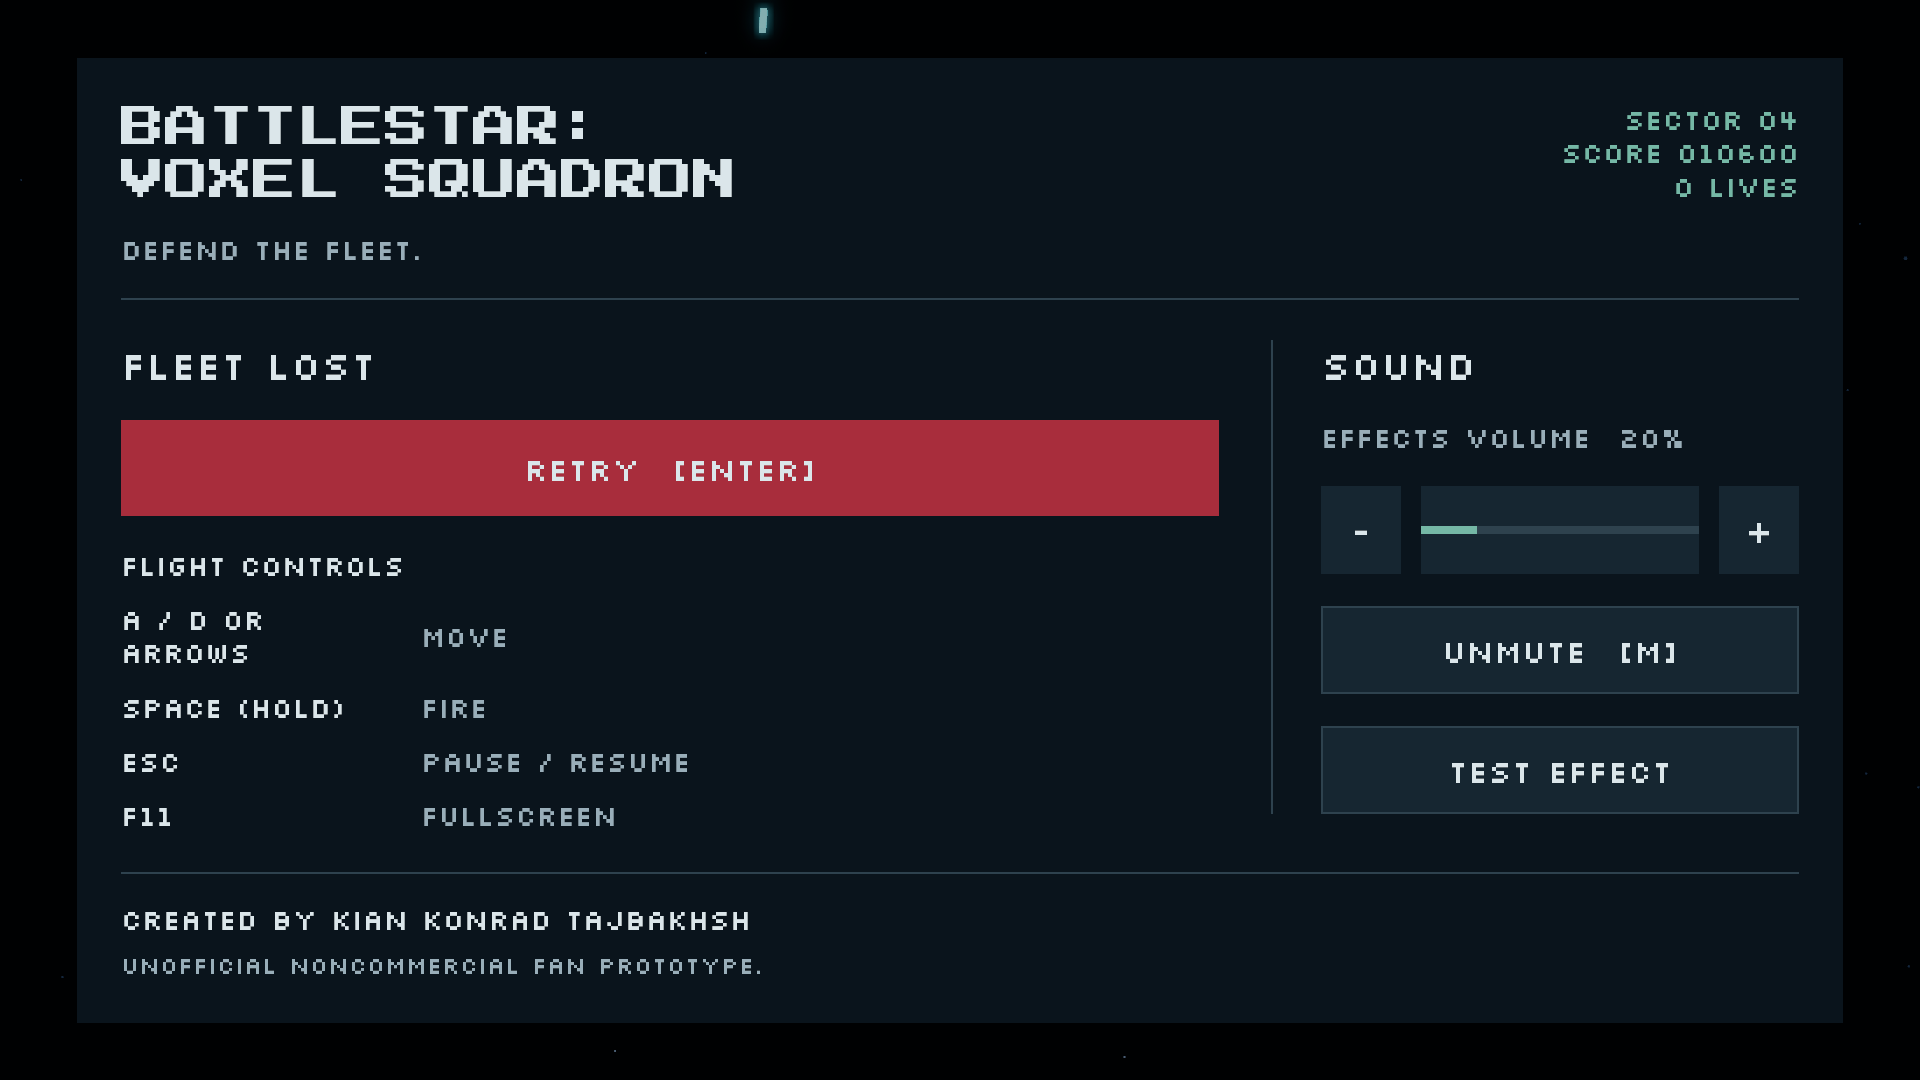
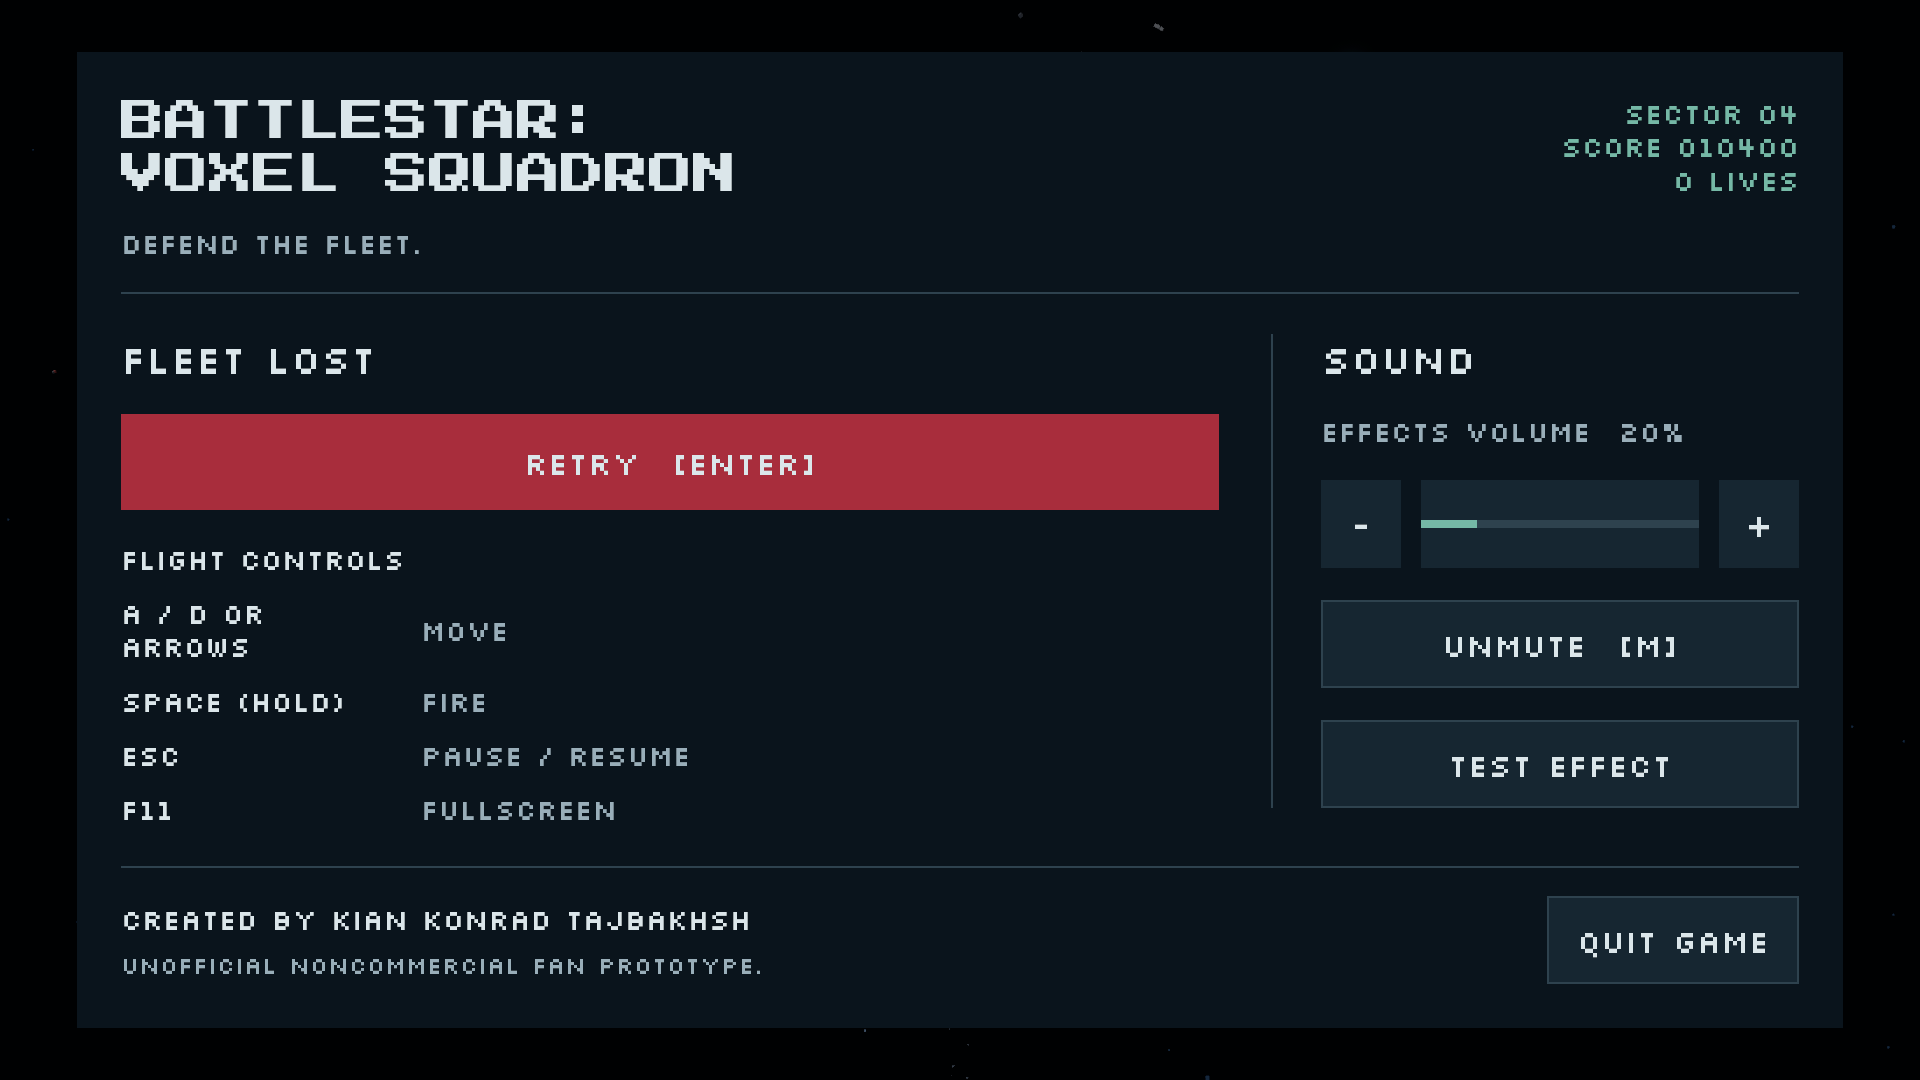
docs: finalize v0.4.2 combat refinement validation and screenshots

diff --git a/docs/Release_Validation.md b/docs/Release_Validation.md
@@ -6,7 +6,17 @@ The final replay checked 29,385 actual projectile mesh/color associations (inclu
 
 At physical 1920×1080, 1,021 frames averaged 8.333 ms / p95 8.775 ms (about 120 FPS) on Apple M5. The complete replay averaged 8.37 ms / p95 8.84 ms. These are bounded native measurements, not universal hardware guarantees. Target acquisition and damage remain deterministic and material-accurate; player horizontal aiming is unchanged.
 
-Native Windows/Linux package jobs and final artifact receipts will be recorded after completion. Graphical gameplay on those systems remains untested. Existing licensing, private incorporated-audio and fan-rights boundaries below remain applicable.
+Native Windows/Linux package jobs and final artifact receipts are complete below. Graphical gameplay on those systems remains untested. Existing licensing, private incorporated-audio and fan-rights boundaries below remain applicable.
+
+## v0.4.2 package identity and completed checks
+
+Compiled code: `26ba773a796d72655e9cde0f37db00eea81575df`. [Native packages](https://github.com/Kian-hdr/Battlestar_Voxel_Squadron/actions/runs/41149829188) and [source checks](https://github.com/Kian-hdr/Battlestar_Voxel_Squadron/actions/runs/41149829922) succeeded. Actual native job logs record 86 passing tests on Windows and Linux, plus successful graphics Clippy, release linking and packaging.
+
+- **Mac Apple Silicon:** final app and DMG signed, notarized, stapled and Gatekeeper-accepted; the DMG was mounted read-only and its copied app/executable hash verified against the native tested build. App receipt `1390005a-1dcc-4c73-89c2-c7df17afd0ab`; DMG `c0a39094-d80b-486d-bad2-122ab5d89115`.
+- **Windows x64:** native PE32+ GUI executable, 254-file roster, 253 internal checksums, approved embedded effects, safe paths and source notices verified. Ordinary text files use expected Windows CRLF checkout conversion; byte-preserved notices remain exact. Unsigned; graphical gameplay not tested.
+- **Linux x64:** native ELF64 PIE, executable/launcher permissions, 255-file roster, 254 internal checksums, source notices and approved embedded effects verified. All 15 archive checks pass. Graphical gameplay not tested.
+
+Three platform packages, individual checksum files and aggregate SHA256SUMS.txt form seven release assets; their uploaded digests and sizes match final local bytes. Final documentation/screenshots are the only differences from compiled source. Screenshots are actual game captures, resized to at most 1920 pixels for documentation; raw captures are retained. No AI raster generation or content retouching was used. Previous releases and private audio boundaries remain intact.
 
 ## Historical v0.4.1 validation
 

diff --git a/README.md b/README.md
@@ -8,11 +8,11 @@ A native Rust 3D voxel arcade game by **Kian Konrad Tajbakhsh**. Fly a Viper, de
 
 Get the desktop packages from [GitHub Releases](https://github.com/Kian-hdr/Battlestar_Voxel_Squadron/releases). This is an early playable fan prototype.
 
-- **[macOS DMG, Apple Silicon](https://github.com/Kian-hdr/Battlestar_Voxel_Squadron/releases/download/v0.4.1/Battlestar_Voxel_Squadron_v0.4.1_macOS_Apple_Silicon.dmg):** open the DMG, drag `Battlestar_Voxel_Squadron.app` to Applications, then launch it.
-- **[Windows ZIP, x64](https://github.com/Kian-hdr/Battlestar_Voxel_Squadron/releases/download/v0.4.1/Battlestar_Voxel_Squadron_v0.4.1_Windows_x86_64.zip):** extract the ZIP and run `Battlestar_Voxel_Squadron.exe`.
-- **[Linux archive, x64](https://github.com/Kian-hdr/Battlestar_Voxel_Squadron/releases/download/v0.4.1/Battlestar_Voxel_Squadron_v0.4.1_Linux_x86_64.tar.gz):** extract the archive, install the runtime libraries listed in its README, and run `./Battlestar_Voxel_Squadron` in a graphical session with a Vulkan driver.
+- **[macOS DMG, Apple Silicon](https://github.com/Kian-hdr/Battlestar_Voxel_Squadron/releases/download/v0.4.2/Battlestar_Voxel_Squadron_v0.4.2_macOS_Apple_Silicon.dmg):** open the DMG, drag `Battlestar_Voxel_Squadron.app` to Applications, then launch it.
+- **[Windows ZIP, x64](https://github.com/Kian-hdr/Battlestar_Voxel_Squadron/releases/download/v0.4.2/Battlestar_Voxel_Squadron_v0.4.2_Windows_x86_64.zip):** extract the ZIP and run `Battlestar_Voxel_Squadron.exe`.
+- **[Linux archive, x64](https://github.com/Kian-hdr/Battlestar_Voxel_Squadron/releases/download/v0.4.2/Battlestar_Voxel_Squadron_v0.4.2_Linux_x86_64.tar.gz):** extract the archive, install the runtime libraries listed in its README, and run `./Battlestar_Voxel_Squadron` in a graphical session with a Vulkan driver.
 
-v0.4.1 removes Viper blinking and exhaust overlap, keeps debris until it clears the viewport, and adds soft shadow transitions with restrained projectile/exhaust glow. See [release notes](docs/Release_Notes.md).
+v0.4.2 fixes late depth targeting and the red impact-beam artifact, adds flowing tapered exhaust and receding debris, and includes Quit Game in the menu. See [release notes](docs/Release_Notes.md).
 
 No account, server or internet connection is needed to play. [Validation notes](docs/Release_Validation.md) state which platforms were build-tested and which were played. Windows binaries are unsigned; SmartScreen may show an unknown-publisher warning.
 
